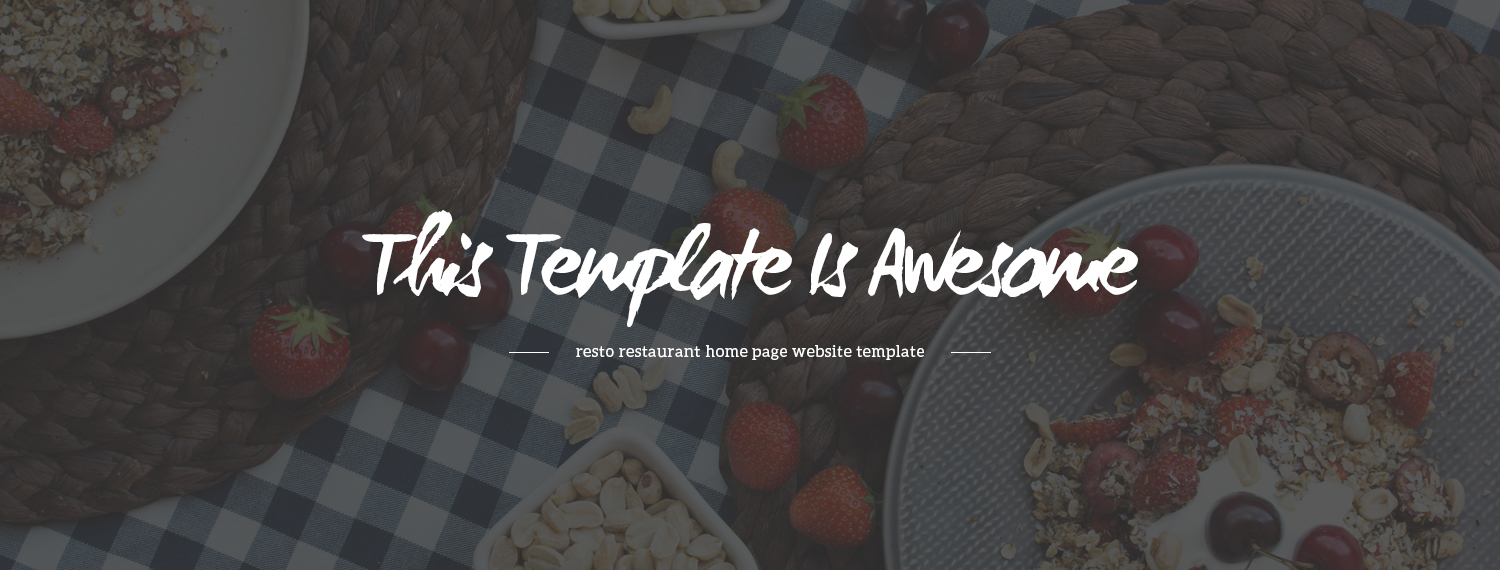
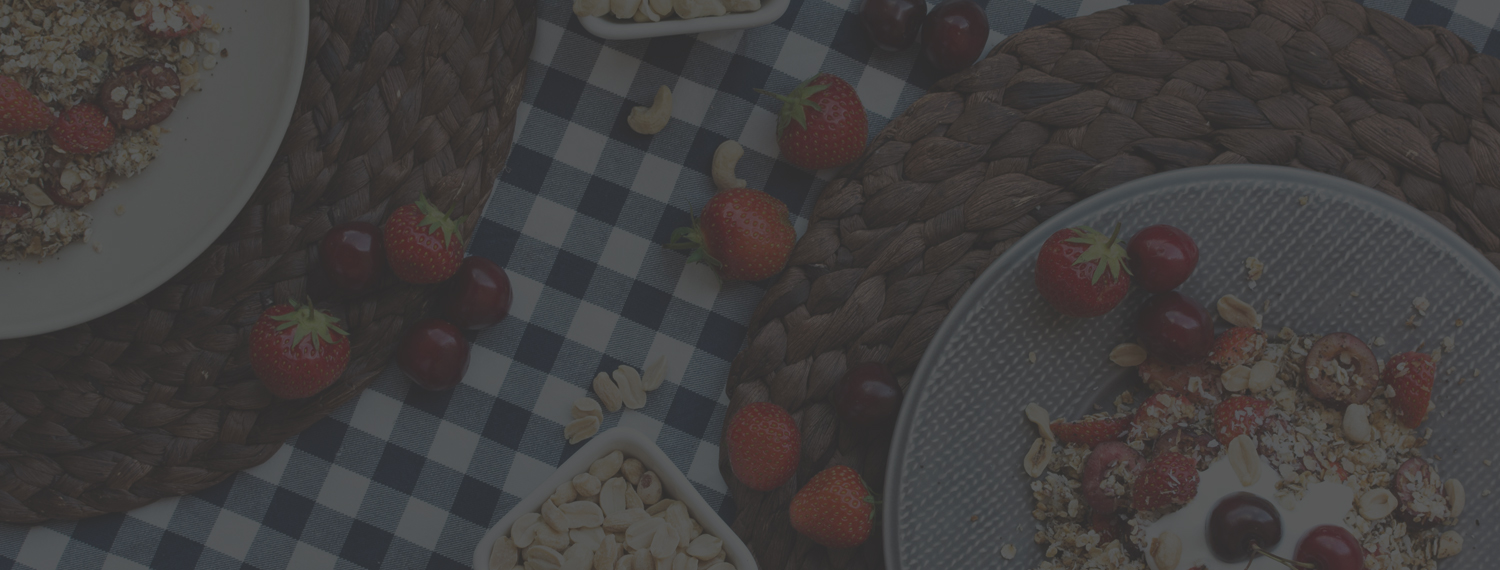
fix last menu item margin-right and change theMenu img

Changed region(s): [[0.2453, 0.3579, 0.7667, 0.5667], [0.368, 0.5965, 0.6133, 0.6263]]

diff --git a/css/main.css b/css/main.css
@@ -5813,24 +5813,26 @@ button.close {
   width: 100%;
   height: 110px;
   background-color: #ffffff;
-  border: none; }
+  border: none;
+  margin: 0; }
   .navbar .container {
     padding-left: 30px;
     padding-right: 6px; }
-    .navbar .container .navbar-collapse {
-      display: flex;
-      text-align: center;
-      justify-content: center; }
-      .navbar .container .navbar-collapse .navbar-nav {
-        float: right; }
-        .navbar .container .navbar-collapse .navbar-nav li a {
-          padding: 48px 50px 47px 0;
+    .navbar .container .navbar-nav {
+      float: right; }
+      .navbar .container .navbar-nav li {
+        margin: 45px 50px 47px 0; }
+        .navbar .container .navbar-nav li a {
+          padding: 0;
           font-size: 14px; }
+
+#bs-example-navbar-collapse-1 > ul > li:nth-child(5) {
+  margin-right: 0; }
 
 .header {
   width: 100%;
   height: 570px;
-  background-image: url(..//img/gallery.jpg);
+  background-image: url(..//img/header.jpg);
   background-size: cover;
   background-repeat: no-repeat;
   background-position: center;

diff --git a/assets/stylesheets/_nav.scss b/assets/stylesheets/_nav.scss
@@ -5,25 +5,24 @@
 	@include wh(100%,110px);
 	background-color: $white;
 	border: none;
-	
+	margin: 0;
 		.container {
 			padding-left: 30px;
-			padding-right: 6px;
-			
-				.navbar-collapse {
-					@include flex-center(flex,center,center);
-					
-					.navbar-nav{
-						float: right;
-						li{
-						
-							a{
-								padding: 48px 50px 47px 0;
-								font-size: 14px;
-					}
+			padding-right: 6px;					
+				.navbar-nav{
+					float: right;
+							li{
+								margin: 45px 50px 47px 0;
+									a{
+										padding: 0;
+										font-size: 14px;
 				}
 			}
 		}	
 	}
+}
+
+#bs-example-navbar-collapse-1 > ul > li:nth-child(5) {
+	margin-right: 0;
 }
 

diff --git a/assets/stylesheets/_header.scss b/assets/stylesheets/_header.scss
@@ -1,6 +1,6 @@
 .header {
 	@include wh(100%,570px);
-	background-image: url(..//img/gallery.jpg);
+	background-image: url(..//img/header.jpg);
 	background-size: cover;
 	background-repeat: no-repeat;
 	background-position: center;
